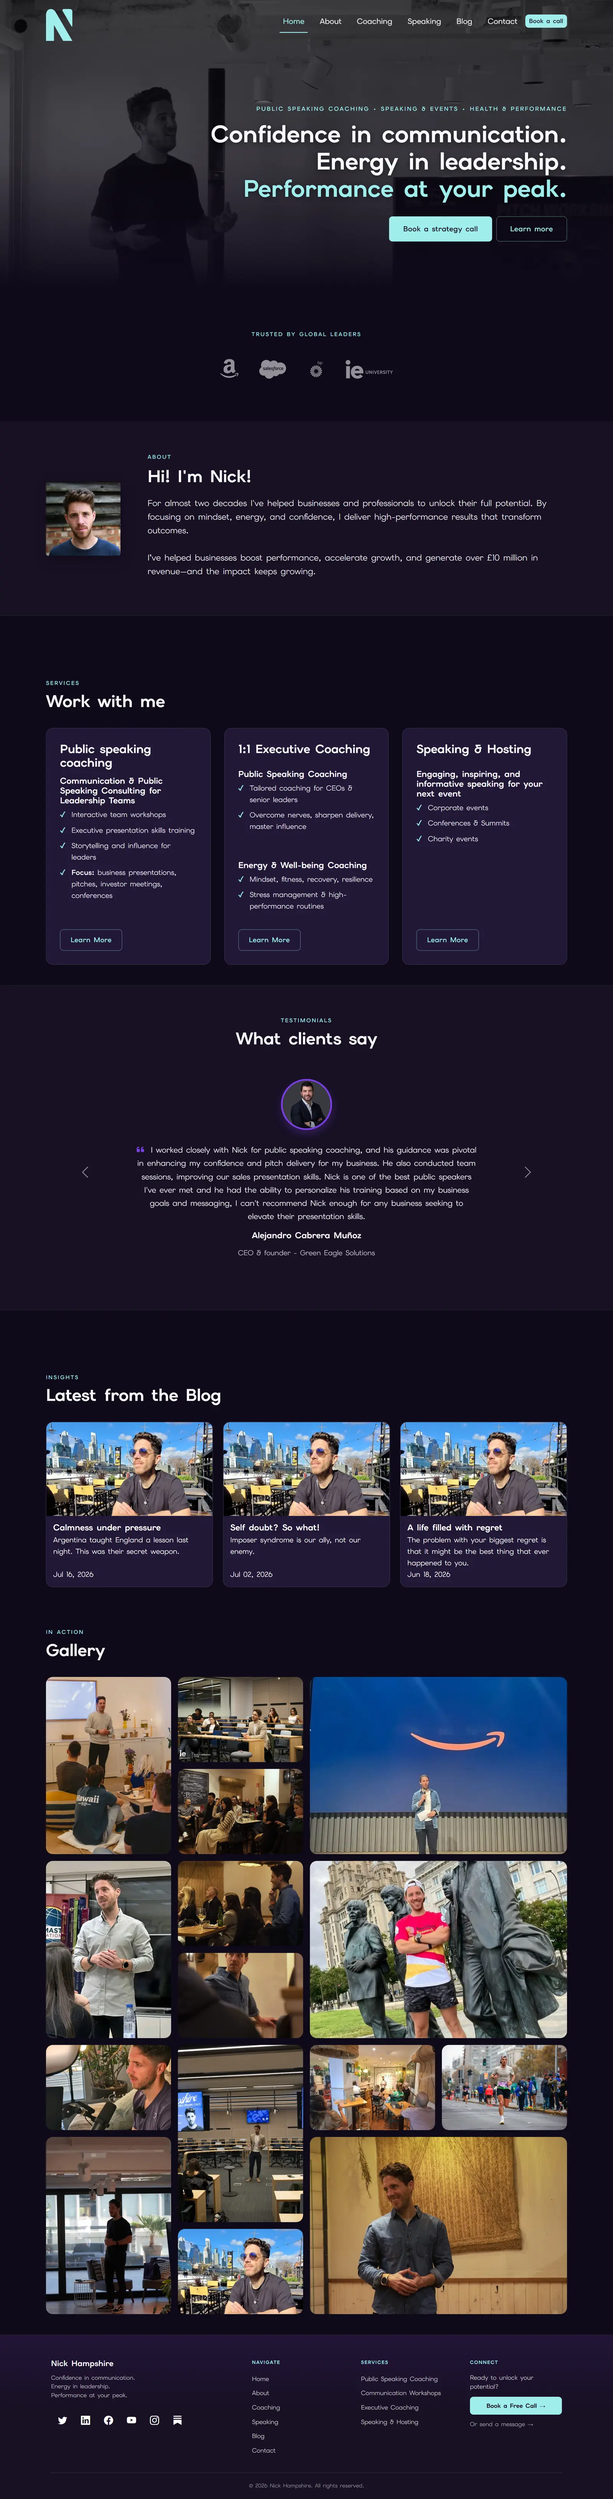
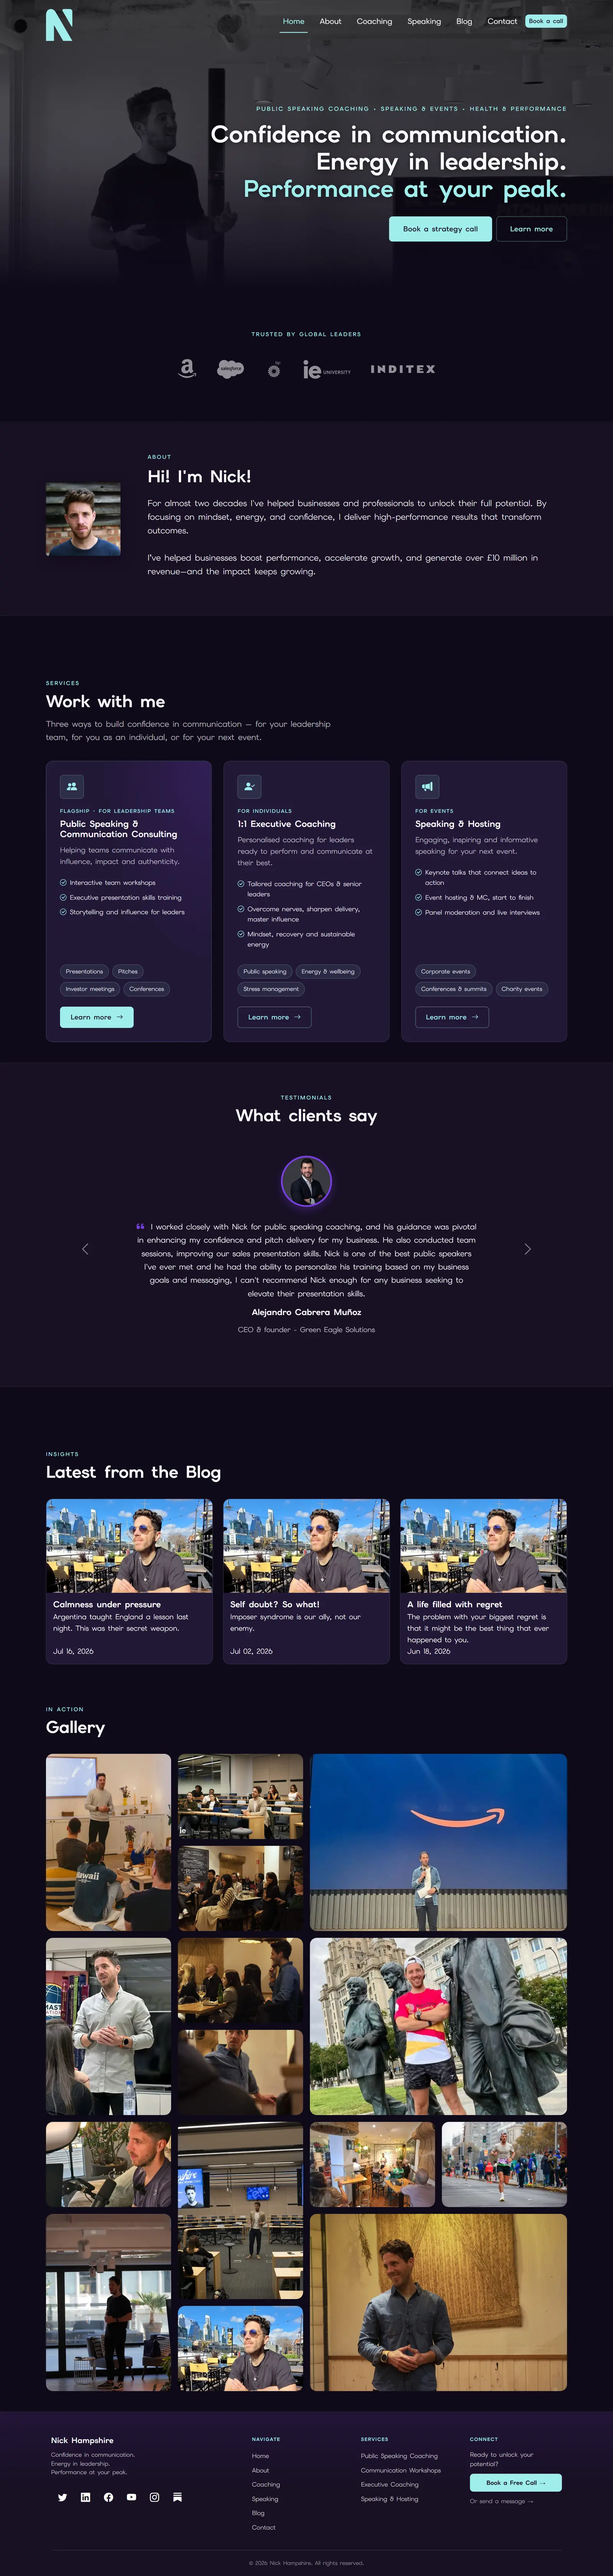
updated nick case study

diff --git a/styles.css b/styles.css
@@ -652,21 +652,30 @@ body { margin: 0; }
      quarters, one modular relationship rather than assorted fixed widths. */
   --aside: 25%;
 
-  /* Per-page hue, as a three-token set. Overridden per page below.
+  /* --- The four section themes ---------------------------------------------
+     Each section of the site owns one colour as a three-token set. They are
+     named here once because two different things draw on them: the page class
+     below, and the nav links, which colour by destination rather than by the
+     page you happen to be on.
 
-       --hue       the chromatic voice: label type, underlines, marks, and the
-                   fill of an inverted control. >=4.5:1 on --surface, and
-                   >=4.5:1 for --surface type sitting on it.
-       --hue-deep  the same colour darkened, for type that sits ON --hue-cell
-                   (--hue on --hue-cell lands near 4.4:1 and would fail).
-       --hue-cell  a pastel wash of the hue: the third surface, used for the
-                   label rail, media wells and a small number of feature cells.
-                   >=11:1 against --ink, >=5.7:1 against --hue-deep.
+       *        the chromatic voice: label type, underlines, marks, and the
+                fill of an inverted control. >=4.5:1 on --surface, and >=4.5:1
+                for --surface type sitting on it.
+       *-deep   the same colour darkened, for type that sits ON the wash (the
+                plain hue on its own wash lands near 4.4:1 and would fail).
+       *-cell   a pastel wash of the hue: the third surface, used for the label
+                rail, media wells and one feature cell per page.
+                >=11:1 against --ink, >=4.5:1 against --muted. */
+  --moss:  var(--accent); --moss-deep:  #3F5849; --moss-cell:  #E6EDE2;  /* Home    5.0:1 */
+  --amber: #8A6A2A;       --amber-deep: #6E541F; --amber-cell: #F0EAD5;  /* About   4.7:1 */
+  --rose:  #9E4E68;       --rose-deep:  #823E55; --rose-cell:  #F5E3E9;  /* Work    5.2:1 */
+  --slate: #4A6A85;       --slate-deep: #35516A; --slate-cell: #E3EBF0;  /* Contact 5.3:1 */
 
-     Home is green, Contact blue, Work and the case studies red, About amber. */
-  --hue:      var(--accent);
-  --hue-deep: #3F5849;
-  --hue-cell: #E6EDE2;
+  /* The theme in force on this page. Moss is the default when no page class is
+     set; the classes below swap the whole set, never a single token. */
+  --hue:      var(--moss);
+  --hue-deep: var(--moss-deep);
+  --hue-cell: var(--moss-cell);
 
   background-color: var(--band);
   font-family: var(--font-mono);
@@ -674,14 +683,12 @@ body { margin: 0; }
   color: var(--ink-2);
 }
 
-/* Amber — 4.66:1 */
-.cert.page-about   { --hue: #8A6A2A; --hue-deep: #6E541F; --hue-cell: #F0EAD5; }
-/* Brick red — 5.24:1. Work is the index of the case studies, so the index and
-   the nine studies behind it share one hue and read as a single section. */
+.cert.page-about   { --hue: var(--amber); --hue-deep: var(--amber-deep); --hue-cell: var(--amber-cell); }
+/* Work is the index of the case studies, so the index and the nine studies
+   behind it share one theme and read as a single section. */
 .cert.page-work,
-.cert.page-case    { --hue: #A0503F; --hue-deep: #83402F; --hue-cell: #F4E5DF; }
-/* Slate blue — 5.27:1 */
-.cert.page-contact { --hue: #4A6A85; --hue-deep: #35516A; --hue-cell: #E3EBF0; }
+.cert.page-case    { --hue: var(--rose);  --hue-deep: var(--rose-deep);  --hue-cell: var(--rose-cell); }
+.cert.page-contact { --hue: var(--slate); --hue-deep: var(--slate-deep); --hue-cell: var(--slate-cell); }
 
 /* Text selection picks up the page hue rather than the old system's accent */
 .cert ::selection { background: var(--hue); color: var(--surface); }
@@ -932,12 +939,22 @@ body { margin: 0; }
   text-decoration: none;
   transition: background 0.15s ease, color 0.15s ease;
 }
+/* Each link re-declares the theme set to the one belonging to the page it
+   points at, so it keeps that colour on every page of the site rather than
+   inheriting whichever theme is currently in force. The nav becomes a fixed
+   colour key: green is Home, amber is About, rose is Work, blue is Contact,
+   wherever you are standing. Keyed off href because the markup already
+   distinguishes the four destinations - no extra classes needed on 13 pages. */
+.cert-nav-links a[href="/"]        { --hue: var(--moss);  --hue-deep: var(--moss-deep);  --hue-cell: var(--moss-cell); }
+.cert-nav-links a[href="/about"]   { --hue: var(--amber); --hue-deep: var(--amber-deep); --hue-cell: var(--amber-cell); }
+.cert-nav-links a[href="/work"]    { --hue: var(--rose);  --hue-deep: var(--rose-deep);  --hue-cell: var(--rose-cell); }
+.cert-nav-links a[href="/contact"] { --hue: var(--slate); --hue-deep: var(--slate-deep); --hue-cell: var(--slate-cell); }
+
 .cert-nav-links a:hover,
-.cert-nav-links a:focus-visible { color: var(--ink); background: var(--band); }
-/* Marked twice over: the hue wash names the section by colour at a glance, and
-   the 2px inset rule keeps the mark legible if the wash goes unnoticed. Hover
-   already fills with --band, so a fill here is the same shape at a louder
-   value rather than a new behaviour. */
+.cert-nav-links a:focus-visible { color: var(--hue-deep); background: var(--hue-cell); }
+/* Hover and current share the destination's wash, so the 2px inset rule is what
+   separates them: hover is the wash alone, current is the wash plus the mark.
+   That also keeps the current page legible without relying on colour alone. */
 .cert-nav-links a[aria-current="page"] {
   color: var(--hue-deep);
   background: var(--hue-cell);

diff --git a/projects/nick-hampshire.html b/projects/nick-hampshire.html
@@ -22,7 +22,7 @@
   THESIS: A case study held in the same hard-ruled grid as the rest of the site.
   It refuses the centred article column and the full-bleed image essay.
   OWN-WORLD: 1px ink rules, zero radius, zero shadow, cells in #F9F6EF on a
-  #ECEFE0 ground. Martian Mono only. Hue is brick red #A0503F, shared with the Work
+  #ECEFE0 ground. Martian Mono only. Hue is rose pink #9E4E68, shared with the Work
   index, on the label rail, the screenshot frames and the closing band.
   STORY: The visitor reads what the project was, what was hard, and what shipped,
   then moves to the next project or gets in touch.
@@ -175,8 +175,8 @@
                 <span class="shot-url">nickhampshire.com</span>
               </div>
               <div class="shot-view">
-                <img src="../assets/img/nick-hampshire/desktop-full.webp" width="1600" height="6519" loading="lazy"
-                     alt="The full Nick Hampshire homepage from hero to footer: headline, trusted-by logo wall, about section, three service cards, client testimonials, blog posts and photo gallery">
+                <img src="../assets/img/nick-hampshire/desktop-full.webp" width="1600" height="6719" loading="lazy"
+                     alt="The full Nick Hampshire homepage from hero to footer: headline, a trusted-by logo wall now including Inditex, about section, three icon-led service cards, a single-quote testimonial carousel, blog posts and photo gallery">
               </div>
             </div>
             <figcaption>The full homepage, playing through the frame &mdash; hover to pause. Hook, proof, method, action in a single scroll.</figcaption>
@@ -194,9 +194,9 @@
                 <span class="shot-url">nickhampshire.com</span>
               </div>
               <img src="../assets/img/nick-hampshire/desktop-services.webp" width="1920" height="1200" loading="lazy"
-                   alt="'Work with me' section with three cards: public speaking coaching, 1:1 executive coaching, and speaking &amp; hosting, each with checkmarked bullet points and an outlined Learn More button">
+                   alt="'Work with me' section with three icon-led cards labelled Flagship for leadership teams, For individuals, and For events: Public Speaking &amp; Communication Consulting, 1:1 Executive Coaching, and Speaking &amp; Hosting, each with checkmarked bullet points, focus-area tags and a solid teal Learn More button">
             </div>
-            <figcaption>Four blurred offers became three clear cards &mdash; each with one next step.</figcaption>
+            <figcaption>Four blurred offers became three clear cards, each labelled for exactly who it&rsquo;s for.</figcaption>
           </figure>
         </div>
         <div class="cell cell-media">
@@ -238,7 +238,7 @@
           <figure class="case-shot case-shot-phone reveal">
             <div class="shot-phone">
               <img src="../assets/img/nick-hampshire/mobile-services.webp" width="780" height="1688" loading="lazy"
-                   alt="Mobile 'Work with me' section with the public speaking coaching card, checkmarked bullet points and an outlined Learn More button">
+                   alt="Mobile 'Work with me' section with the Flagship public speaking consulting card: an icon badge, checkmarked bullet points and focus-area tags">
             </div>
             <figcaption>The ask</figcaption>
           </figure>

diff --git a/work.html b/work.html
@@ -23,7 +23,7 @@
   It refuses the equal-card project grid and the hover-zoom thumbnail.
   OWN-WORLD: Hard-ruled form grid on warm Kaleido paper. 1px ink rules, zero
   radius, zero shadow, cells in #F9F6EF on a #ECEFE0 ground. Martian
-  Mono only. This page's hue is brick red #A0503F, shared with the nine case
+  Mono only. This page's hue is rose pink #9E4E68, shared with the nine case
   studies it indexes, on the label rail, the count cell and every image well.
   STORY: The visitor scans nine numbered entries, filters to their discipline,
   and opens the one that matches their problem.
@@ -153,7 +153,7 @@
         <article class="crow g-project project-item" data-category="web">
           <p class="vlabel">05</p>
           <div class="cell cell-tight">
-            <div class="c-shot"><img src="assets/img/nick-hampshire.svg" alt="Nick Hampshire coaching website hero with portrait, headline and call to action" loading="lazy"></div>
+            <div class="c-shot"><img src="assets/img/nick-hampshire/thumb.webp" alt="Nick Hampshire homepage hero: a dark stage-lit photograph of Nick mid-talk beside the headline 'Confidence in communication. Energy in leadership. Performance at your peak.'" loading="lazy"></div>
           </div>
           <div class="cell cell-mid">
             <h2 class="c-title">Nick Hampshire</h2>

diff --git a/projects/bird-watcher.html b/projects/bird-watcher.html
@@ -22,7 +22,7 @@
   THESIS: A case study held in the same hard-ruled grid as the rest of the site.
   It refuses the centred article column and the full-bleed image essay.
   OWN-WORLD: 1px ink rules, zero radius, zero shadow, cells in #F9F6EF on a
-  #ECEFE0 ground. Martian Mono only. Hue is brick red #A0503F, shared with the Work
+  #ECEFE0 ground. Martian Mono only. Hue is rose pink #9E4E68, shared with the Work
   index, on the label rail, the screenshot frames and the closing band.
   STORY: The visitor reads what the project was, what was hard, and what shipped,
   then moves to the next project or gets in touch.

diff --git a/projects/centrus-insights.html b/projects/centrus-insights.html
@@ -22,7 +22,7 @@
   THESIS: A case study held in the same hard-ruled grid as the rest of the site.
   It refuses the centred article column and the full-bleed image essay.
   OWN-WORLD: 1px ink rules, zero radius, zero shadow, cells in #F9F6EF on a
-  #ECEFE0 ground. Martian Mono only. Hue is brick red #A0503F, shared with the Work
+  #ECEFE0 ground. Martian Mono only. Hue is rose pink #9E4E68, shared with the Work
   index, on the label rail, the screenshot frames and the closing band.
   STORY: The visitor reads what the project was, what was hard, and what shipped,
   then moves to the next project or gets in touch.

diff --git a/projects/centrus.html b/projects/centrus.html
@@ -22,7 +22,7 @@
   THESIS: A case study held in the same hard-ruled grid as the rest of the site.
   It refuses the centred article column and the full-bleed image essay.
   OWN-WORLD: 1px ink rules, zero radius, zero shadow, cells in #F9F6EF on a
-  #ECEFE0 ground. Martian Mono only. Hue is brick red #A0503F, shared with the Work
+  #ECEFE0 ground. Martian Mono only. Hue is rose pink #9E4E68, shared with the Work
   index, on the label rail, the screenshot frames and the closing band.
   STORY: The visitor reads what the project was, what was hard, and what shipped,
   then moves to the next project or gets in touch.

diff --git a/projects/instemux.html b/projects/instemux.html
@@ -22,7 +22,7 @@
   THESIS: A case study held in the same hard-ruled grid as the rest of the site.
   It refuses the centred article column and the full-bleed image essay.
   OWN-WORLD: 1px ink rules, zero radius, zero shadow, cells in #F9F6EF on a
-  #ECEFE0 ground. Martian Mono only. Hue is brick red #A0503F, shared with the Work
+  #ECEFE0 ground. Martian Mono only. Hue is rose pink #9E4E68, shared with the Work
   index, on the label rail, the screenshot frames and the closing band.
   STORY: The visitor reads what the project was, what was hard, and what shipped,
   then moves to the next project or gets in touch.

diff --git a/projects/knowledgescan.html b/projects/knowledgescan.html
@@ -22,7 +22,7 @@
   THESIS: A case study held in the same hard-ruled grid as the rest of the site.
   It refuses the centred article column and the full-bleed image essay.
   OWN-WORLD: 1px ink rules, zero radius, zero shadow, cells in #F9F6EF on a
-  #ECEFE0 ground. Martian Mono only. Hue is brick red #A0503F, shared with the Work
+  #ECEFE0 ground. Martian Mono only. Hue is rose pink #9E4E68, shared with the Work
   index, on the label rail, the screenshot frames and the closing band.
   STORY: The visitor reads what the project was, what was hard, and what shipped,
   then moves to the next project or gets in touch.

diff --git a/projects/no-boundaries.html b/projects/no-boundaries.html
@@ -22,7 +22,7 @@
   THESIS: A case study held in the same hard-ruled grid as the rest of the site.
   It refuses the centred article column and the full-bleed image essay.
   OWN-WORLD: 1px ink rules, zero radius, zero shadow, cells in #F9F6EF on a
-  #ECEFE0 ground. Martian Mono only. Hue is brick red #A0503F, shared with the Work
+  #ECEFE0 ground. Martian Mono only. Hue is rose pink #9E4E68, shared with the Work
   index, on the label rail, the screenshot frames and the closing band.
   STORY: The visitor reads what the project was, what was hard, and what shipped,
   then moves to the next project or gets in touch.

diff --git a/projects/visit-stafford.html b/projects/visit-stafford.html
@@ -22,7 +22,7 @@
   THESIS: A case study held in the same hard-ruled grid as the rest of the site.
   It refuses the centred article column and the full-bleed image essay.
   OWN-WORLD: 1px ink rules, zero radius, zero shadow, cells in #F9F6EF on a
-  #ECEFE0 ground. Martian Mono only. Hue is brick red #A0503F, shared with the Work
+  #ECEFE0 ground. Martian Mono only. Hue is rose pink #9E4E68, shared with the Work
   index, on the label rail, the screenshot frames and the closing band.
   STORY: The visitor reads what the project was, what was hard, and what shipped,
   then moves to the next project or gets in touch.

diff --git a/projects/wrottesley-golf.html b/projects/wrottesley-golf.html
@@ -22,7 +22,7 @@
   THESIS: A case study held in the same hard-ruled grid as the rest of the site.
   It refuses the centred article column and the full-bleed image essay.
   OWN-WORLD: 1px ink rules, zero radius, zero shadow, cells in #F9F6EF on a
-  #ECEFE0 ground. Martian Mono only. Hue is brick red #A0503F, shared with the Work
+  #ECEFE0 ground. Martian Mono only. Hue is rose pink #9E4E68, shared with the Work
   index, on the label rail, the screenshot frames and the closing band.
   STORY: The visitor reads what the project was, what was hard, and what shipped,
   then moves to the next project or gets in touch.
